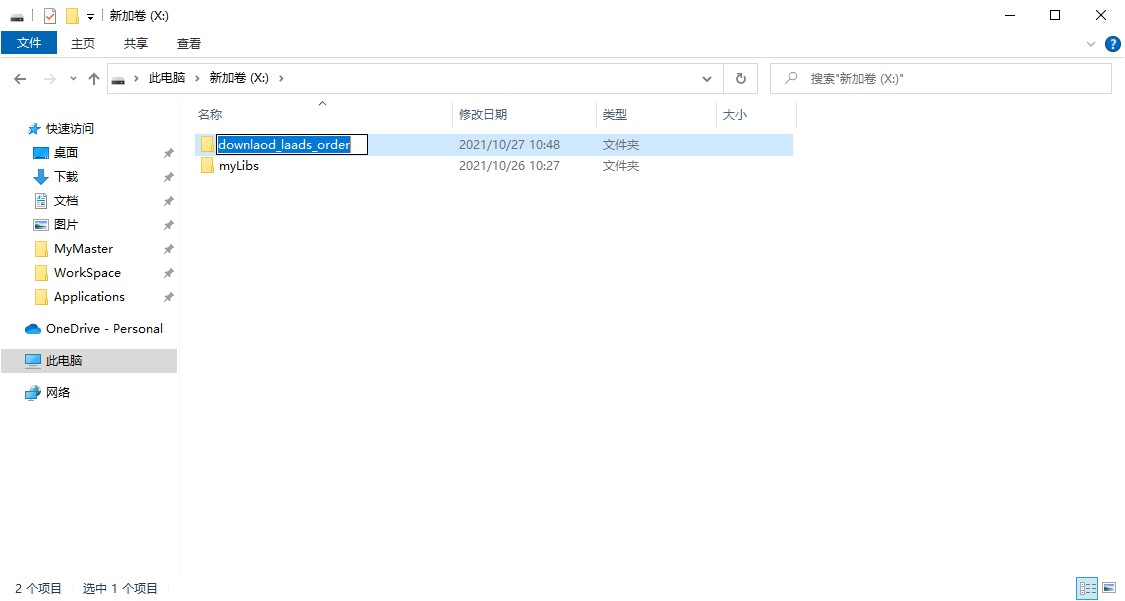
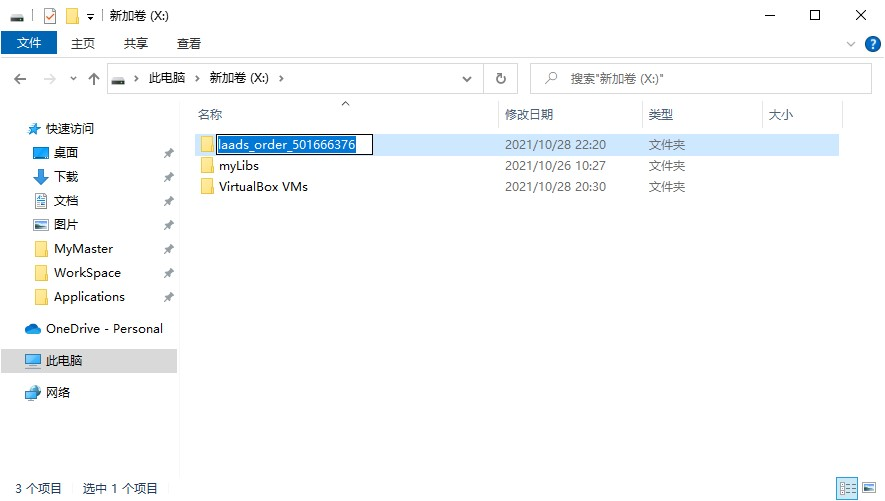
bug小修

diff --git a/chap/2.download_data_by_aria2.tex b/chap/2.download_data_by_aria2.tex
@@ -1,7 +1,6 @@
 \section{数据下载}
 \subsection{获取链接}
 \begin{frame}
-    \frametitle{全选订单文件}
     回到我们的订单内容页面
     \includegraphics[width=\linewidth]{images/20.订单内容}
 \end{frame}
@@ -12,7 +11,7 @@
         \draw[red,very thick](0.23,0.64) rectangle (0.3,0.68);
     \end{annotationimage}
 \end{frame}
-\begin{frame}
+\begin{frame}[label=file-link]
     \frametitle{获取选中文件地址}
     点击\underline{Download All}按钮，获取选中文件的存储链地址
     \begin{annotationimage}{width=\linewidth}{images/24.全选订单文件}
@@ -31,7 +30,7 @@
     假如叫laads\_order\_501666376
     \begin{annotationimage}{width=\linewidth}{images/26.新建一个文件夹}
         \imagelabelset{image label back = white,image label text = black}
-        \draw[image label = {推荐阁下也以这样的方式命名，其中501666376是该订单的订单号 at center}];
+        \draw[image label = {501666376是该订单的订单号 at center}];
     \end{annotationimage}
 \end{frame}
 \begin{frame}
@@ -65,6 +64,7 @@
 \subsection{安装下载工具}
 \begin{frame}
     \frametitle{下载Aria2}
+    为了加快下载速度，我们使用著名的多线程下载工具Aria2\\
     直接从Aria2在GitHub的仓库下载，以64位1.36.0版为例\\
     \url{https://github.com/aria2/aria2/releases}
     \begin{annotationimage}{width=\linewidth}{images/d_by_aria2/下载Aria2}
@@ -112,6 +112,9 @@
 \end{frame}
 \begin{frame}
     \frametitle{下载完成}
-    下载完成时就类似于下图
+    下载完成时就类似于下图\\
+    根据笔者某次下载记录，下载一个21.6G的订单，耗时为2个小时整
+    \footnote{订单大小可以在
+    \hyperlink{file-link}{\beamergotobutton{获取选中文件地址}}这张片子中查看}
     \includegraphics[width=\linewidth]{images/d_by_aria2/下载完成.jpg}
 \end{frame}
